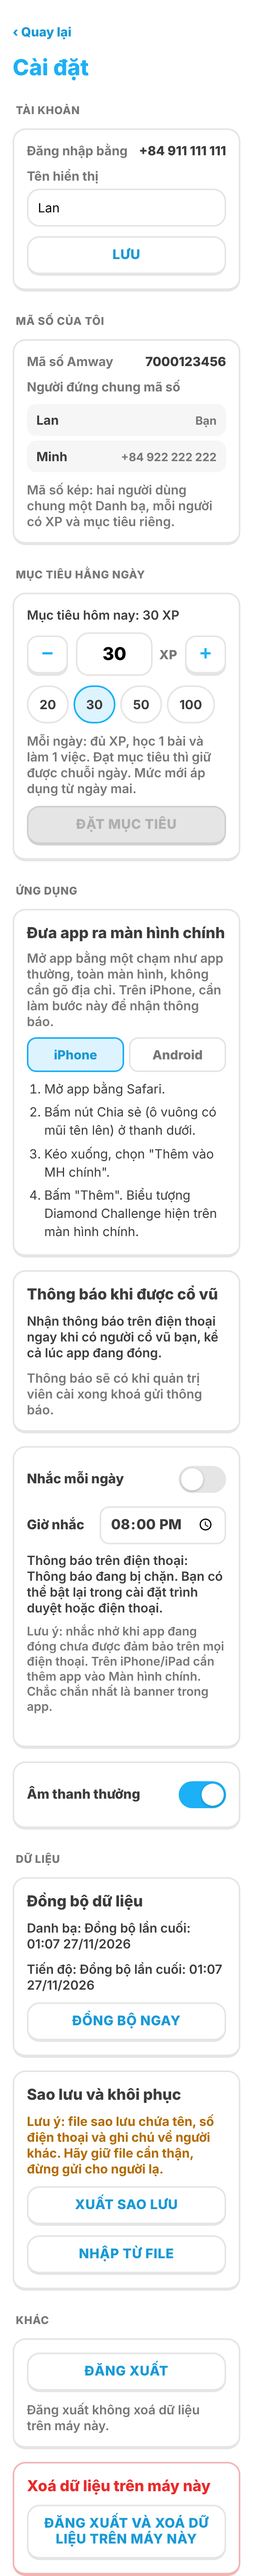
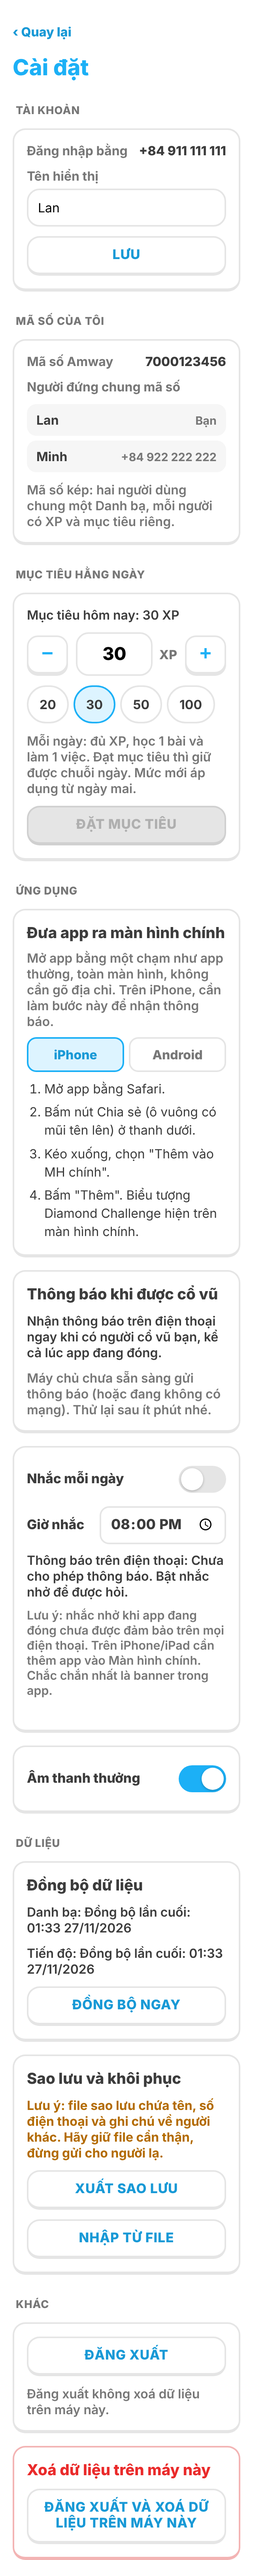
feat: the deploy creates the web push key pair once into the Supabase function secrets, and the app reads the public key from push-public-key (story 057)
Story: production/epics/diamond-challenge/story-057-cheer-push.md

Claude-Session: https://claude.ai/code/session_01N8trRukAdUtow4mzvQDbn7

diff --git a/src/ui/screens/push-card.tsx b/src/ui/screens/push-card.tsx
@@ -1,18 +1,22 @@
 import { useEffect, useState } from 'react';
 import type { SupabaseClient } from '@supabase/supabase-js';
 import gameConfig from '../../config/game-config.json';
-import { browserPushEnvironment, enablePush, hasPushSubscription, pushSupport } from '../../notifications/push';
+import { browserPushEnvironment, enablePush, fetchPushPublicKey, hasPushSubscription, pushSupport } from '../../notifications/push';
 import type { PushSupport } from '../../notifications/push';
 import { STRINGS } from '../strings';
 
-/** The VAPID public key (public by design; the private key lives only in the Supabase function secrets). */
-const VAPID_PUBLIC_KEY = (gameConfig as { push?: { vapidPublicKey?: unknown } }).push?.vapidPublicKey;
-const KEY = typeof VAPID_PUBLIC_KEY === 'string' ? VAPID_PUBLIC_KEY : '';
+/**
+ * A VAPID public key set in the config wins; otherwise it is read from the server
+ * (`push-public-key`), where the deploy created the key pair. The private key never leaves the
+ * Supabase function secrets.
+ */
+const CONFIG_KEY = (gameConfig as { push?: { vapidPublicKey?: unknown } }).push?.vapidPublicKey;
+const KEY_FROM_CONFIG = typeof CONFIG_KEY === 'string' ? CONFIG_KEY : '';
 
 /** Props for {@link PushCard}. */
 export interface PushCardProps {
   readonly clientPromise: Promise<SupabaseClient>;
-  /** Defaults to this browser. */
+  /** Defaults to this browser (decided once the public key is known). */
   readonly support?: PushSupport;
 }
 
@@ -21,8 +25,21 @@ export interface PushCardProps {
  * permission from the tap), or says why it cannot: iPhone needs the home-screen app, notifications
  * blocked, browser without push, keys not set up yet.
  */
-export function PushCard({ clientPromise, support = pushSupport(browserPushEnvironment(KEY)) }: PushCardProps) {
+export function PushCard({ clientPromise, support: forced }: PushCardProps) {
+  /** null while the key is being read. */
+  const [key, setKey] = useState<string | null>(KEY_FROM_CONFIG === '' ? null : KEY_FROM_CONFIG);
   const [on, setOn] = useState(false);
+  useEffect(() => {
+    if (key !== null) return undefined;
+    let cancelled = false;
+    void clientPromise.then(fetchPushPublicKey).then((k) => {
+      if (!cancelled) setKey(k);
+    });
+    return () => {
+      cancelled = true;
+    };
+  }, [clientPromise, key]);
+  const support: PushSupport | null = forced ?? (key === null ? null : pushSupport(browserPushEnvironment(key)));
   const [busy, setBusy] = useState(false);
   const [message, setMessage] = useState<{ readonly text: string; readonly error: boolean } | null>(null);
 
@@ -40,7 +57,7 @@ export function PushCard({ clientPromise, support = pushSupport(browserPushEnvir
   const enable = async () => {
     setBusy(true);
     setMessage(null);
-    const r = await enablePush(await clientPromise, KEY);
+    const r = await enablePush(await clientPromise, key ?? '');
     setBusy(false);
     if (r === 'enabled') {
       setOn(true);
@@ -62,7 +79,12 @@ export function PushCard({ clientPromise, support = pushSupport(browserPushEnvir
             {STRINGS.pushEnable}
           </button>
         ))}
-      {support !== 'ready' && <p className="message">{STRINGS.pushSupport[support]}</p>}
+      {support === null && (
+        <p className="message" role="status">
+          {STRINGS.loading}
+        </p>
+      )}
+      {support !== null && support !== 'ready' && <p className="message">{STRINGS.pushSupport[support]}</p>}
       {message !== null && (
         <p className={message.error ? 'message message--error' : 'message'} role={message.error ? 'alert' : 'status'}>
           {message.text}

diff --git a/src/ui/strings.ts b/src/ui/strings.ts
@@ -480,7 +480,7 @@ export const STRINGS = {
     needs_install: 'Trên iPhone, hãy đưa app ra màn hình chính (thẻ ở trên) rồi mở app từ biểu tượng đó để bật thông báo.',
     denied: 'Thông báo đang bị chặn. Mở cài đặt của trình duyệt hoặc điện thoại để cho phép.',
     unsupported: 'Trình duyệt này không nhận được thông báo đẩy. Thử Chrome (Android) hoặc app ngoài màn hình chính (iPhone).',
-    not_configured: 'Thông báo sẽ có khi quản trị viên cài xong khoá gửi thông báo.',
+    not_configured: 'Máy chủ chưa sẵn sàng gửi thông báo (hoặc đang không có mạng). Thử lại sau ít phút nhé.',
   },
   settingsGroupData: 'Dữ liệu',
   settingsGroupOther: 'Khác',

diff --git a/supabase/functions/push-public-key/index.ts b/supabase/functions/push-public-key/index.ts
@@ -1,0 +1,14 @@
+/**
+ * push-public-key (story 057): the VAPID public key browsers need to turn web push on.
+ * Public by design (no sign-in); the private key never leaves the function secrets.
+ * Responds { publicKey } or 503 `not_configured` before the deploy created the keys.
+ */
+import { corsHeaders, json } from '../_shared/http.ts';
+
+Deno.serve((req) => {
+  if (req.method === 'OPTIONS') return new Response('ok', { headers: corsHeaders(req) });
+  if (req.method !== 'GET' && req.method !== 'POST') return json(req, 405, { error: 'method_not_allowed' });
+  const publicKey = Deno.env.get('VAPID_PUBLIC_KEY');
+  if (!publicKey) return json(req, 503, { error: 'not_configured' });
+  return json(req, 200, { publicKey });
+});

diff --git a/src/notifications/push.ts b/src/notifications/push.ts
@@ -88,3 +88,14 @@ export async function hasPushSubscription(): Promise<boolean> {
     return false;
   }
 }
+
+/** The VAPID public key from the server (`push-public-key`), or '' when it is not set up yet. */
+export async function fetchPushPublicKey(client: Pick<SupabaseClient, 'functions'>): Promise<string> {
+  try {
+    const { data, error } = await client.functions.invoke('push-public-key', { method: 'GET' });
+    const key = (data as { publicKey?: unknown } | null)?.publicKey;
+    return error === null && typeof key === 'string' ? key : '';
+  } catch {
+    return '';
+  }
+}

diff --git a/production/epics/diamond-challenge/story-057-cheer-push.md b/production/epics/diamond-challenge/story-057-cheer-push.md
@@ -30,16 +30,17 @@
 - [x] Máy đã bật được lưu trong `push_subscriptions` (chỉ chủ tài khoản đọc/xoá; ghi qua `register_push_subscription`, một trình duyệt một dòng, chuyển sang tài khoản đăng nhập sau). Có test tích hợp.
 - [x] Gửi lời cổ vũ xong, app gọi `notify-cheer`: máy chủ tìm lời cổ vũ vừa gửi (10 phút, chưa đẩy), đánh dấu `notified_at`, đẩy "💎 <người gửi> cổ vũ bạn" + lời tới người nhận (cổ vũ vợ/chồng: đúng người đó; cổ vũ tuyến trên: mọi người cùng mã số; không bao giờ gửi người gửi); xoá đăng ký đã hết hạn. Có unit test phần thuần.
 - [x] Service worker hiện thông báo đẩy; chạm vào mở Hôm nay.
-- [ ] Gửi thật cần khoá VAPID: khoá bí mật trong secrets của Supabase, khoá công khai trong `push.vapidPublicKey`. Chưa có khoá thì thẻ ghi "Thông báo sẽ có khi quản trị viên cài xong khoá" và hàm trả `not_configured`.
+- [x] Khoá VAPID do máy chủ tự lo: bước deploy "Ensure push keys" tạo cặp khoá một lần, cất thẳng vào secrets của Supabase (không in ra, không vào repo), giữ nguyên nếu đã có; app lấy khoá công khai qua hàm `push-public-key`. Chưa có khoá thì thẻ ghi máy chủ chưa sẵn sàng và `notify-cheer` trả `not_configured`.
+- [ ] Thử thật trên điện thoại: bật thông báo, nhận cổ vũ khi app đóng.
 - [x] 390 và 320px không tràn ngang.
 
 ## Files
 
-- `supabase/migrations/20261128000000_push_subscriptions.sql`, `supabase/functions/notify-cheer/index.ts`, `supabase/functions/_shared/push.ts`, `supabase/config.toml`, `.github/workflows/supabase-deploy.yml`
+- `supabase/migrations/20261128000000_push_subscriptions.sql`, `supabase/functions/notify-cheer/index.ts`, `supabase/functions/push-public-key/index.ts`, `supabase/functions/_shared/push.ts`, `supabase/config.toml`, `.github/workflows/supabase-deploy.yml`
 - `src/notifications/push.ts`, `src/ui/screens/push-card.tsx`, `src/ui/screens/settings-screen.tsx`, `src/app.tsx`, `src/ui/screens/group-cheer-card.tsx`, `src/data/group-service.ts` (`notifyCheer`), `public/sw.js`
 - `src/config/game-config.json` (`push.vapidPublicKey`), `src/ui/strings.ts`
 - `tests/unit/push/push.test.ts` (5 tests, seen failing first), `tests/integration/supabase/push-subscriptions.test.ts` (5 tests, seen failing without the migration)
 - `production/qa/evidence/story-057-cheer-push/`
 
 ## Completion Notes
-Waiting for the VAPID keys; a real push on a phone has not been tried yet.
+The key pair is created by the deploy; a real push on a phone has not been tried yet.
